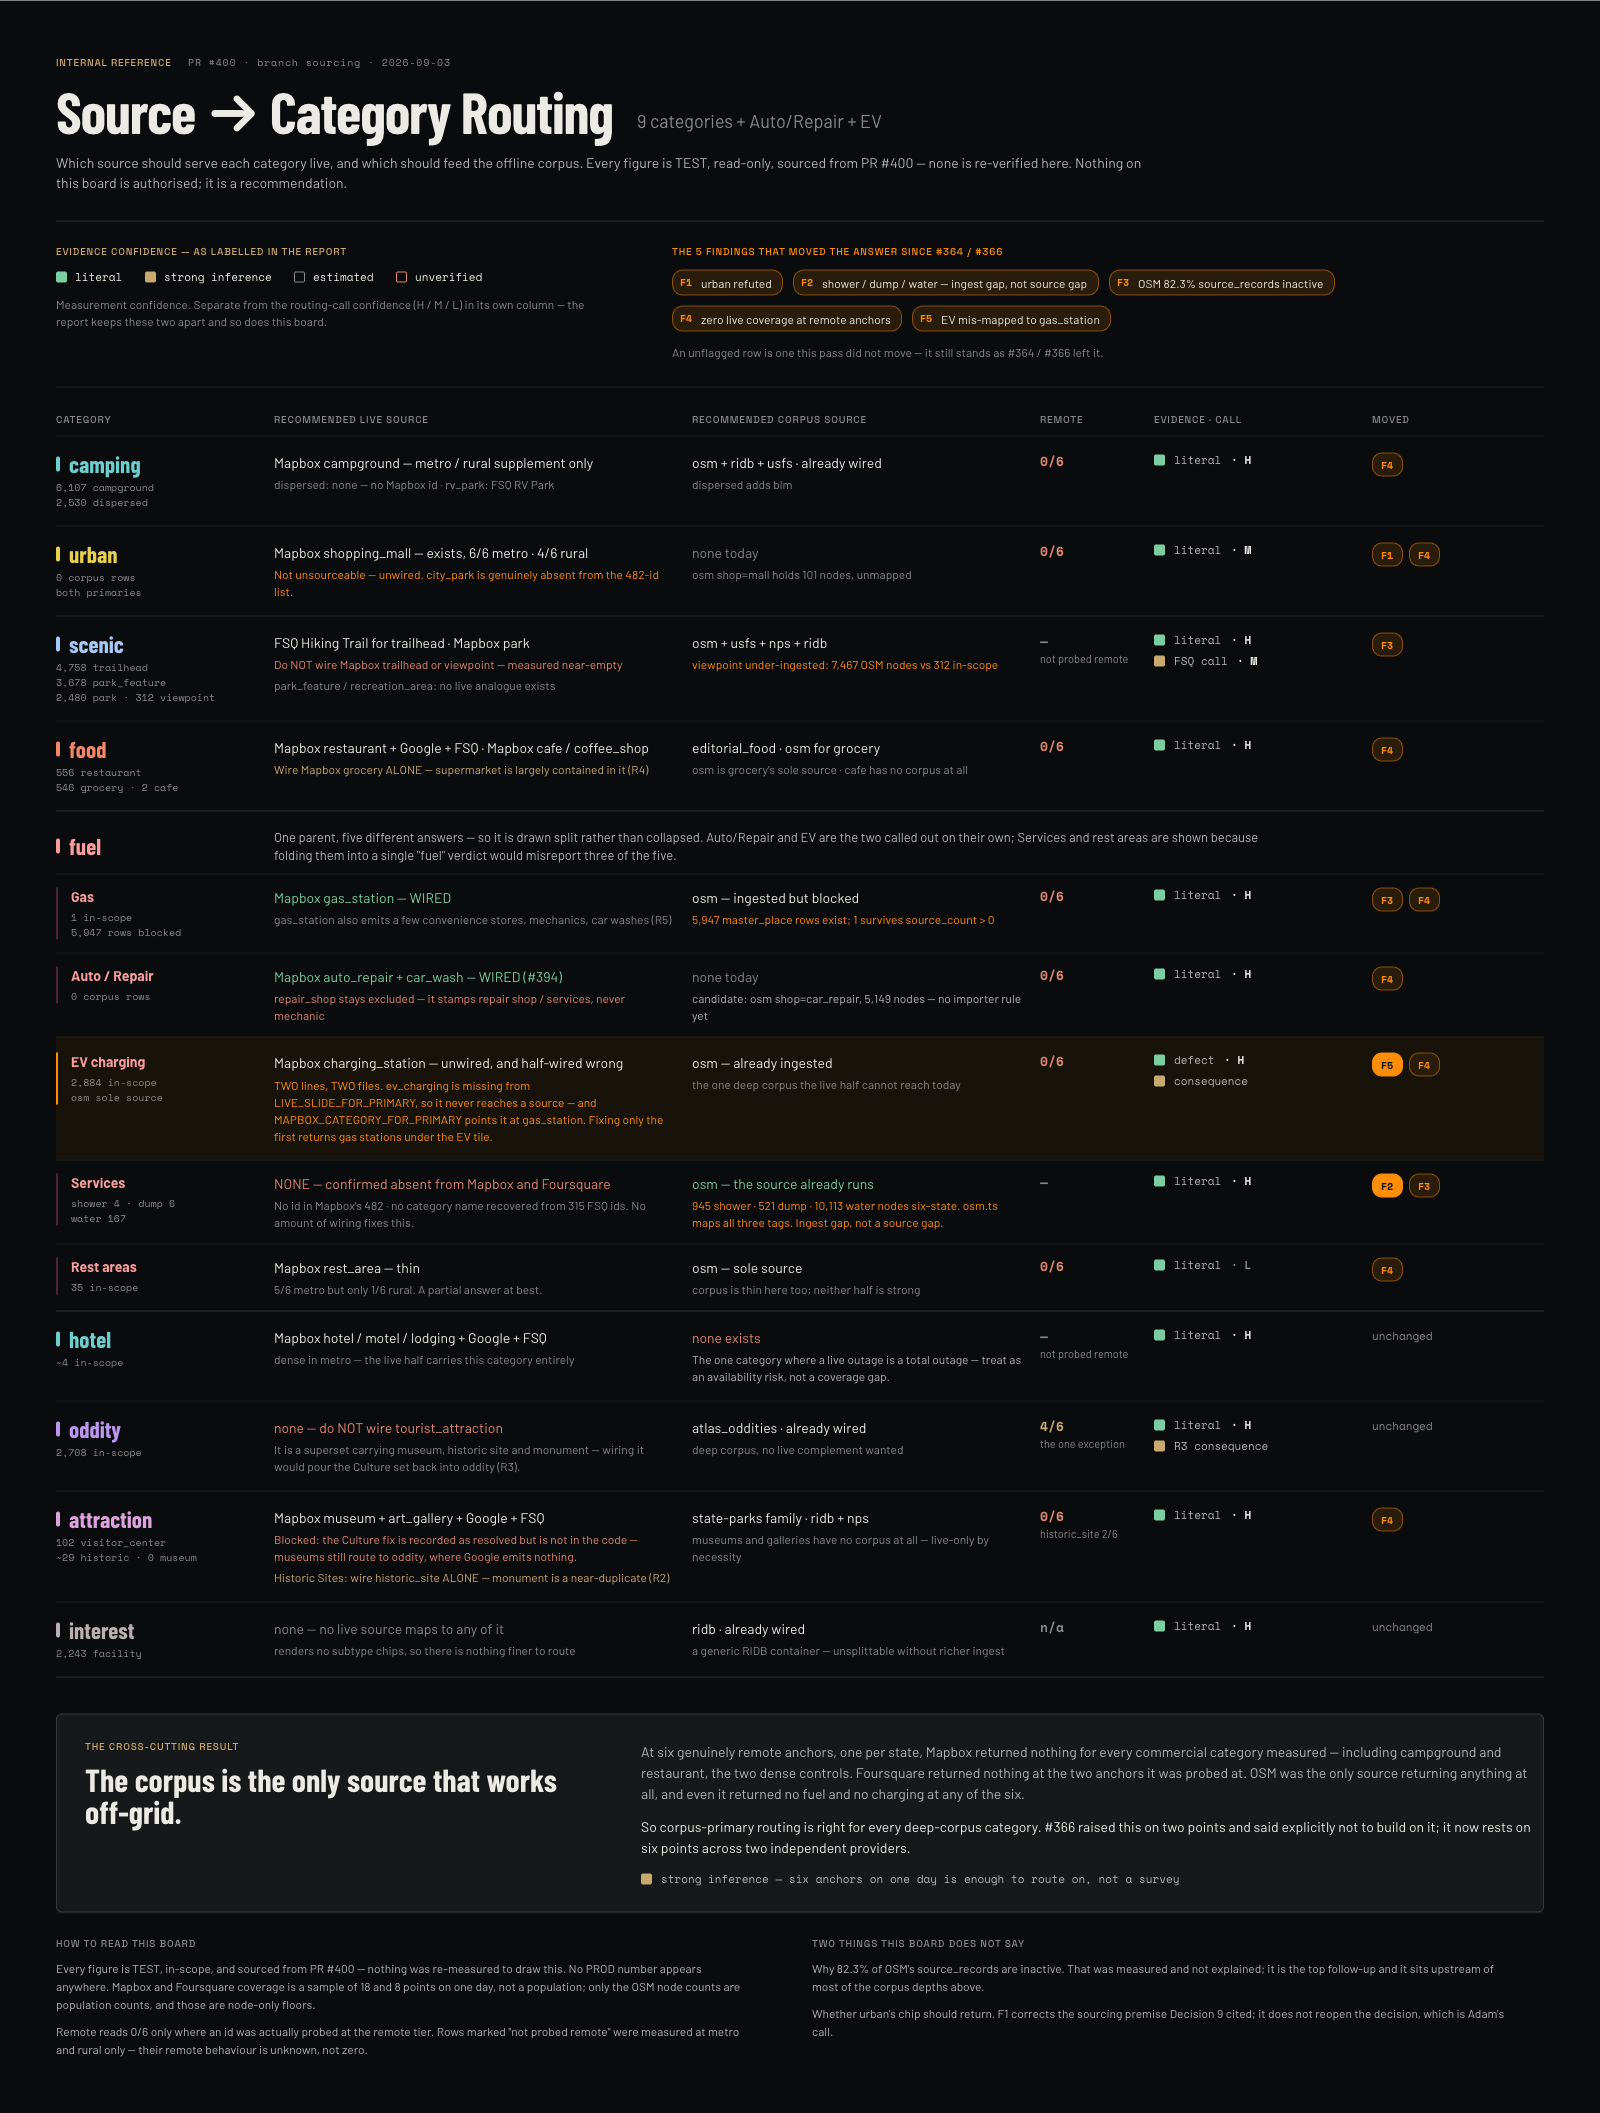
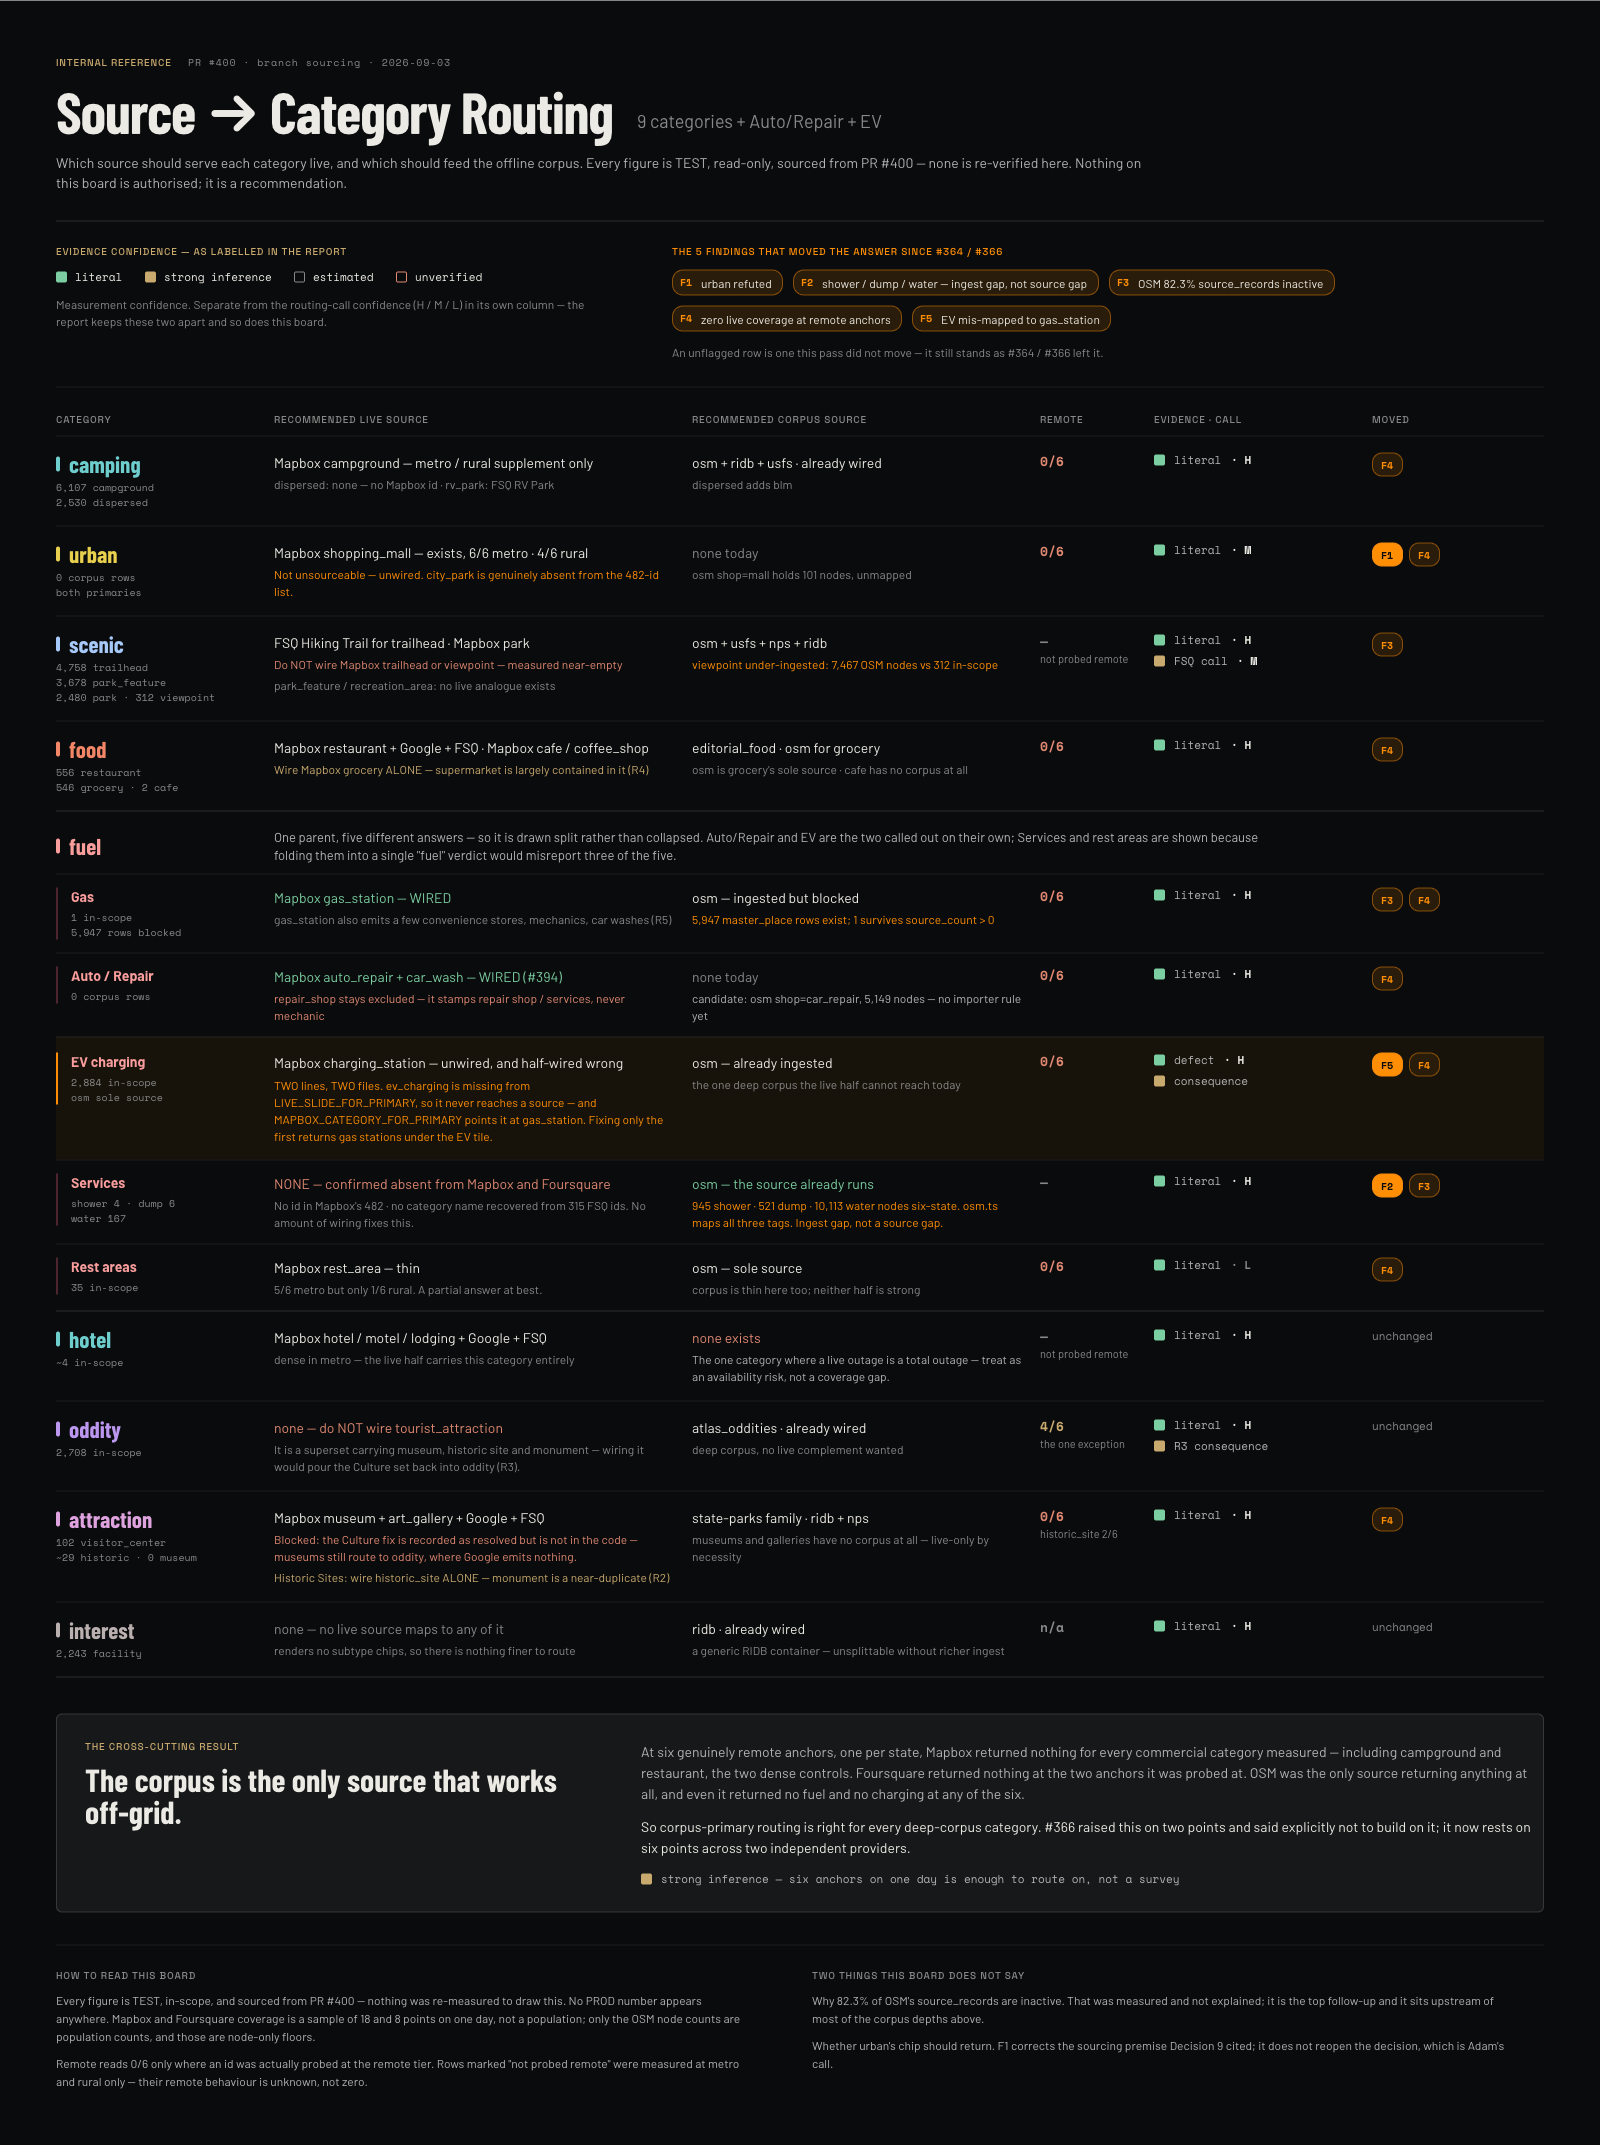
docs: move the routing diagram out to its own Paper file
It was first built as a page inside overlander_1, which made it
unfindable. Paper's file browser renders one thumbnail per file — Page 1 —
so a page inside an 84-artboard file never appears where people go
looking. Adam went looking and couldn't find it.

The precedent was already visible and I misread it: the two PR #361
investigation boards are separate files, not pages. This now matches them.

New file: "Source → Category Routing — PR #400"
https://app.paper.design/file/01M1NG6YRP0516FQEK3Y7K64DG

Content is identical, rebuilt node-for-node from the same markup; the only
visual change is F1 now getting the solid-fill badge on urban, matching
F2/F5 on their originating rows. PNG export refreshed.

Residue: the old overlander_1 page is emptied and carries a signpost
artboard pointing at the new file. Paper's MCP has no delete-page call, so
that empty page needs one manual delete.

diff --git a/docs/STATE.md b/docs/STATE.md
@@ -277,11 +277,15 @@ The mastheads below are the (unrelated) PROD merge-cleanup stream, preserved ver
 
 ---
 
-# STATE — branch `routing-diagram-paper` · 2026-09-03 (later 38) — **The PR #400 routing table is drawn in Paper.** New page in `overlander_1`, built on DESIGN.md tokens. Visualization only — no new measurement, no code, no writes.
+# STATE — branch `routing-diagram-paper` · 2026-09-03 (later 38) — **The PR #400 routing table is drawn in Paper.** Its own file, built on DESIGN.md tokens. Visualization only — no new measurement, no code, no writes.
 
 (**newest truth: one Paper page, one exported PNG, and pointer lines in two docs. Nothing was re-measured to draw it; every figure is carried from PR #400.**
 
-**Where it lives:** `overlander_1` → page **"Source→Category Routing — PR #400"** (https://app.paper.design/file/01KNTTXWMR13F0Y99G08SQM12D/8-0), exported to `docs/assets/2026-09-03-source-category-routing-diagram.png`. **A NEW PAGE, not Page 1** — Page 1 already holds 84 artboards and 13,056 nodes, and CLAUDE.md forbids overwriting an existing frame. Precedent cut both ways (the App Flow / Data Sources / Product Map diagrams all sit on Page 1; the two PR #361 investigations got their own files), so a new page inside the existing file is the option that satisfies "existing file" with zero collision risk.
+**Where it lives:** its own Paper file, **"Source → Category Routing — PR #400"** (https://app.paper.design/file/01M1NG6YRP0516FQEK3Y7K64DG), exported to `docs/assets/2026-09-03-source-category-routing-diagram.png`.
+
+**⚠ IT WAS BUILT IN THE WRONG PLACE FIRST, AND THE CORRECTION IS THE USEFUL PART.** It was first a *page* inside `overlander_1` — which satisfied the brief's "existing file" and avoided touching Page 1's 84 artboards, but made it **unfindable**: Paper's file browser renders **one thumbnail per file**, showing Page 1, so a new page inside a big file does not appear in the place people actually look. Adam went looking and could not find it. **The precedent was already visible and was misread:** the two PR #361 investigation boards are separate *files*, not pages. Moved 2026-09-03.
+
+**Residue that needs one manual click:** the old `overlander_1` page is emptied and carries a signpost artboard pointing at the new file. **Paper's MCP has no delete-page call**, so the empty page has to be deleted by hand.
 
 **⚠ THERE IS NO PAPER FILE NAMED "YO TRIPPIN".** `[literal — `list_files`, 12 files]` The brief named one. `overlander_1` is the file the design system lives in (web/CLAUDE.md points DESIGN.md's tokens at its `7US-0` StyleGuide artboard) and the file that already holds every Overlander reference diagram, so it is the one used. Flagged rather than silently substituted.
 

diff --git a/docs/investigations/2026-09-03-source-to-category-routing.md b/docs/investigations/2026-09-03-source-to-category-routing.md
@@ -621,9 +621,17 @@ Stated plainly so none of it is read in by implication:
 ## Visual reference — Paper board
 
 §11's table is also drawn as a scannable diagram:
-**`overlander_1` → page "Source→Category Routing — PR #400"**
-(https://app.paper.design/file/01KNTTXWMR13F0Y99G08SQM12D/8-0) ·
+**Paper file "Source → Category Routing — PR #400"**
+(https://app.paper.design/file/01M1NG6YRP0516FQEK3Y7K64DG) ·
 exported to `docs/assets/2026-09-03-source-category-routing-diagram.png`.
+
+**It is its own top-level file, deliberately.** It was first built as a *page*
+inside `overlander_1`, which turned out to be the wrong call: Paper's file
+browser shows one thumbnail per file, so a page inside a 84-artboard file is
+invisible from the place people actually go looking. The two PR #361
+investigation boards are separate files for the same reason. Moved 2026-09-03;
+the old `overlander_1` page is emptied and carries a signpost (Paper's MCP has
+no delete-page call, so **the empty page needs deleting by hand**).
 
 **The board is a VIEW of this report, not a second source.** Every figure on it
 is carried from here; nothing was re-measured to draw it. Where the two ever

diff --git a/docs/architecture/category-source-routing-table.md b/docs/architecture/category-source-routing-table.md
@@ -42,8 +42,8 @@ are left in place with pointers rather than rewritten, so the change is legible:
 **Also: §3.1 is marked RESOLVED but is NOT implemented** — `resolve-places.ts:241`
 still routes museum/art_gallery/historical_landmark to `oddity`.
 
-**Drawn as a diagram:** `overlander_1` → page *"Source→Category Routing — PR #400"*
-(https://app.paper.design/file/01KNTTXWMR13F0Y99G08SQM12D/8-0), exported to
+**Drawn as a diagram:** Paper file *"Source → Category Routing — PR #400"*
+(https://app.paper.design/file/01M1NG6YRP0516FQEK3Y7K64DG), exported to
 `docs/assets/2026-09-03-source-category-routing-diagram.png`. It is a view of the
 investigation, not a second source — see that report's *Visual reference* section
 for what the board does differently from this table.
